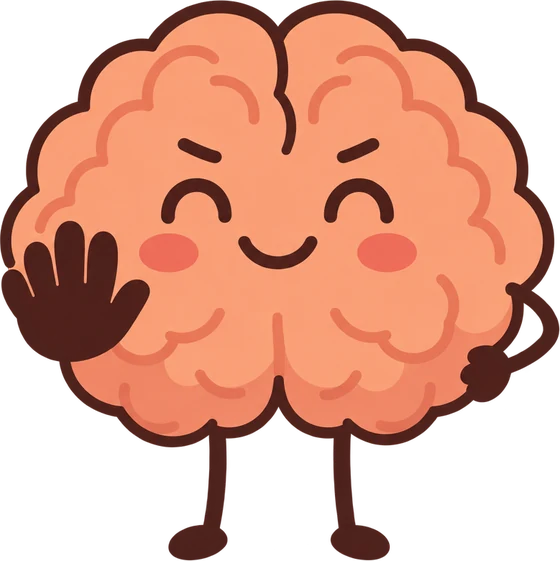
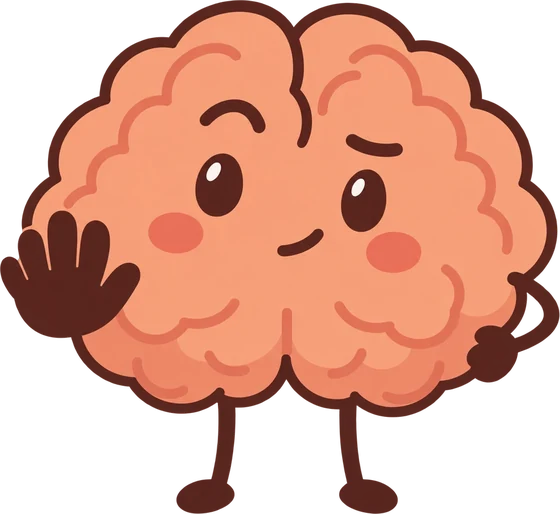
Use a friendlier mascot on the lock screen
Replace the strict "stop" brain with a curious, friendly one that fits
"Is this important?", in the hero phone, the App blocker phone and the
"Your apps lock" step.

Changed region(s): [[0.0, 0.0, 1.0, 1.0], [0.2125, 0.5603, 0.2429, 0.6226]]

diff --git a/index.html b/index.html
@@ -426,7 +426,7 @@ footer .copy { margin-top: 24px; color: var(--muted); font-size: 13.5px; }
         <p>Start from 100+ ready-made habits, from reading to running, or make your own. Give it a time.</p>
       </li>
       <li class="step rv">
-        <div class="art"><img src="assets/v10/mascot-stop.webp" width="560" height="561" loading="lazy" alt=""></div>
+        <div class="art"><img src="assets/v10/mascot-stop.webp" width="560" height="514" loading="lazy" alt=""></div>
         <h3>Your apps lock</h3>
         <p>When it’s time, the apps you picked lock until the habit is done. No snooze, no “five more minutes”.</p>
       </li>
